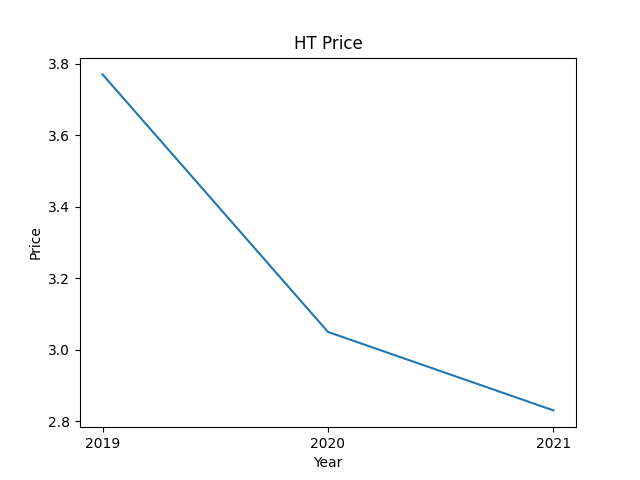
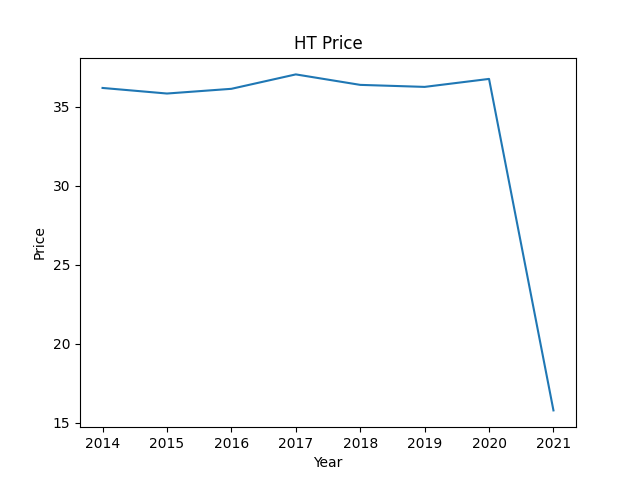
updated value error

diff --git a/main.py b/main.py
@@ -144,7 +144,7 @@ if ((val_yearly_demand > 0) & (val_yearly_demand < 2000)):
             ht_industrie_prices_without_VAT = household_prices
             ht_industrie_prices_without_VAT["year"] = ht_industrie_prices_without_VAT["year"].astype(int)
             ht_year = ht_industrie_prices_without_VAT["year"]
-            ht_price = ht_industrie_prices_without_VAT["price"]
+            ht_price = ht_industrie_prices_without_VAT["price"] * ht_factor
 
             ht_new_year = np.append(ht_year, 2021)
             ht_new_price = np.append(ht_price, val1)
@@ -156,7 +156,7 @@ if ((val_yearly_demand > 0) & (val_yearly_demand < 2000)):
             nt_industrie_prices_without_VAT = household_prices
             nt_industrie_prices_without_VAT["year"] = nt_industrie_prices_without_VAT["year"].astype(int)
             nt_year = nt_industrie_prices_without_VAT["year"]
-            nt_price = nt_industrie_prices_without_VAT["price"]
+            nt_price = nt_industrie_prices_without_VAT["price"] * nt_factor
 
             nt_new_year = np.append(nt_year, 2021)
             nt_new_price = np.append(nt_price, val2)
@@ -170,7 +170,7 @@ if ((val_yearly_demand > 0) & (val_yearly_demand < 2000)):
             ht_industrie_prices_without_VAT = household_prices
             ht_industrie_prices_without_VAT["year"] = ht_industrie_prices_without_VAT["year"].astype(int)
             ht_year = ht_industrie_prices_without_VAT["year"]
-            ht_price = ht_industrie_prices_without_VAT["price"]
+            ht_price = ht_industrie_prices_without_VAT["price"] * ht_factor
 
             ht_new_year = np.append(ht_year, 2021)
             ht_new_price = np.append(ht_price, (val1*ht_factor))
@@ -183,7 +183,7 @@ if ((val_yearly_demand > 0) & (val_yearly_demand < 2000)):
             nt_industrie_prices_without_VAT = household_prices
             nt_industrie_prices_without_VAT["year"] = nt_industrie_prices_without_VAT["year"].astype(int)
             nt_year = nt_industrie_prices_without_VAT["year"]
-            nt_price = nt_industrie_prices_without_VAT["price"]
+            nt_price = nt_industrie_prices_without_VAT["price"] * nt_factor
 
             nt_new_year = np.append(nt_year, 2021)
             nt_new_price = np.append(nt_price, (val1*nt_factor))
@@ -197,7 +197,7 @@ if ((val_yearly_demand > 0) & (val_yearly_demand < 2000)):
         ht_industrie_prices_without_VAT = household_prices
         ht_industrie_prices_without_VAT["year"] = ht_industrie_prices_without_VAT["year"].astype(int)
         ht_year = ht_industrie_prices_without_VAT["year"]
-        ht_price = ht_industrie_prices_without_VAT["price"]
+        ht_price = ht_industrie_prices_without_VAT["price"] * ht_factor
         f = interpolate.interp1d(ht_year, ht_price, fill_value = "extrapolate")
         p_2021 = f(2021)
 
@@ -211,7 +211,7 @@ if ((val_yearly_demand > 0) & (val_yearly_demand < 2000)):
         nt_industrie_prices_without_VAT = household_prices
         nt_industrie_prices_without_VAT["year"] = nt_industrie_prices_without_VAT["year"].astype(int)
         nt_year = nt_industrie_prices_without_VAT["year"]
-        nt_price = nt_industrie_prices_without_VAT["price"]
+        nt_price = nt_industrie_prices_without_VAT["price"] * nt_factor
         
         f = interpolate.interp1d(nt_year, nt_price, fill_value = "extrapolate")
         p_2021 = f(2021)
@@ -265,7 +265,7 @@ elif ((val_yearly_demand >= 2000) & (val_yearly_demand <= 20000)):
             ht_industrie_prices_without_VAT = industrie_prices_without_VAT
             ht_industrie_prices_without_VAT["year"] = ht_industrie_prices_without_VAT["year"].astype(int)
             ht_year = ht_industrie_prices_without_VAT["year"]
-            ht_price = ht_industrie_prices_without_VAT["price"]
+            ht_price = ht_industrie_prices_without_VAT["price"] * ht_factor
 
 
             ht_new_year = np.append(ht_year, 2021)
@@ -279,7 +279,7 @@ elif ((val_yearly_demand >= 2000) & (val_yearly_demand <= 20000)):
             nt_industrie_prices_without_VAT = industrie_prices_without_VAT
             nt_industrie_prices_without_VAT["year"] = nt_industrie_prices_without_VAT["year"].astype(int)
             nt_year = nt_industrie_prices_without_VAT["year"]
-            nt_price = nt_industrie_prices_without_VAT["price"]
+            nt_price = nt_industrie_prices_without_VAT["price"] * nt_factor
 
             nt_new_year = np.append(nt_year, 2021)
             nt_new_price = np.append(nt_price, (val1*nt_factor))
@@ -295,7 +295,7 @@ elif ((val_yearly_demand >= 2000) & (val_yearly_demand <= 20000)):
         ht_industrie_prices_without_VAT = industrie_prices_without_VAT
         ht_industrie_prices_without_VAT["year"] = ht_industrie_prices_without_VAT["year"].astype(int)
         ht_year = ht_industrie_prices_without_VAT["year"]
-        ht_price = ht_industrie_prices_without_VAT["price"]
+        ht_price = ht_industrie_prices_without_VAT["price"] * ht_factor
         f = interpolate.interp1d(ht_year, ht_price, fill_value = "extrapolate")
         p_2021 = f(2021)
 
@@ -309,7 +309,7 @@ elif ((val_yearly_demand >= 2000) & (val_yearly_demand <= 20000)):
         nt_industrie_prices_without_VAT = industrie_prices_without_VAT
         nt_industrie_prices_without_VAT["year"] = nt_industrie_prices_without_VAT["year"].astype(int)
         nt_year = nt_industrie_prices_without_VAT["year"]
-        nt_price = nt_industrie_prices_without_VAT["price"]
+        nt_price = nt_industrie_prices_without_VAT["price"] * nt_factor
         
         f = interpolate.interp1d(nt_year, nt_price, fill_value = "extrapolate")
         p_2021 = f(2021)
@@ -339,7 +339,7 @@ elif ((val_yearly_demand > 20000) & (val_yearly_demand <= 70000)):
             ht_industrie_prices_without_VAT = mid_industrie_prices
             ht_industrie_prices_without_VAT["year"] = ht_industrie_prices_without_VAT["year"].astype(int)
             ht_year = ht_industrie_prices_without_VAT["year"]
-            ht_price = ht_industrie_prices_without_VAT["price"]
+            ht_price = ht_industrie_prices_without_VAT["price"] * ht_factor
 
             ht_new_year = np.append(ht_year, 2021)
             ht_new_price = np.append(ht_price, val1)
@@ -351,7 +351,7 @@ elif ((val_yearly_demand > 20000) & (val_yearly_demand <= 70000)):
             nt_industrie_prices_without_VAT = mid_industrie_prices
             nt_industrie_prices_without_VAT["year"] = nt_industrie_prices_without_VAT["year"].astype(int)
             nt_year = nt_industrie_prices_without_VAT["year"]
-            nt_price = nt_industrie_prices_without_VAT["price"]
+            nt_price = nt_industrie_prices_without_VAT["price"] * nt_factor
 
             nt_new_year = np.append(nt_year, 2021)
             nt_new_price = np.append(nt_price, val2)
@@ -365,7 +365,7 @@ elif ((val_yearly_demand > 20000) & (val_yearly_demand <= 70000)):
             ht_industrie_prices_without_VAT = mid_industrie_prices
             ht_industrie_prices_without_VAT["year"] = ht_industrie_prices_without_VAT["year"].astype(int)
             ht_year = ht_industrie_prices_without_VAT["year"]
-            ht_price = ht_industrie_prices_without_VAT["price"]
+            ht_price = ht_industrie_prices_without_VAT["price"] * ht_factor
 
             ht_new_year = np.append(ht_year, 2021)
             ht_new_price = np.append(ht_price, (val1*ht_factor))
@@ -378,7 +378,7 @@ elif ((val_yearly_demand > 20000) & (val_yearly_demand <= 70000)):
             nt_industrie_prices_without_VAT = mid_industrie_prices
             nt_industrie_prices_without_VAT["year"] = nt_industrie_prices_without_VAT["year"].astype(int)
             nt_year = nt_industrie_prices_without_VAT["year"]
-            nt_price = nt_industrie_prices_without_VAT["price"]
+            nt_price = nt_industrie_prices_without_VAT["price"] * nt_factor
 
             nt_new_year = np.append(nt_year, 2021)
             nt_new_price = np.append(nt_price, (val1*nt_factor))
@@ -392,7 +392,7 @@ elif ((val_yearly_demand > 20000) & (val_yearly_demand <= 70000)):
         ht_industrie_prices_without_VAT = mid_industrie_prices
         ht_industrie_prices_without_VAT["year"] = ht_industrie_prices_without_VAT["year"].astype(int)
         ht_year = ht_industrie_prices_without_VAT["year"]
-        ht_price = ht_industrie_prices_without_VAT["price"]
+        ht_price = ht_industrie_prices_without_VAT["price"] * ht_factor
         f = interpolate.interp1d(ht_year, ht_price, fill_value = "extrapolate")
         p_2021 = f(2021)
 
@@ -406,7 +406,7 @@ elif ((val_yearly_demand > 20000) & (val_yearly_demand <= 70000)):
         nt_industrie_prices_without_VAT = mid_industrie_prices
         nt_industrie_prices_without_VAT["year"] = nt_industrie_prices_without_VAT["year"].astype(int)
         nt_year = nt_industrie_prices_without_VAT["year"]
-        nt_price = nt_industrie_prices_without_VAT["price"]
+        nt_price = nt_industrie_prices_without_VAT["price"] * nt_factor
         
         f = interpolate.interp1d(nt_year, nt_price, fill_value = "extrapolate")
         p_2021 = f(2021)
@@ -436,7 +436,7 @@ elif ((val_yearly_demand > 70000) & (val_yearly_demand <= 150000)):
             ht_industrie_prices_without_VAT = big_industrial_prices_BDEW
             ht_industrie_prices_without_VAT["year"] = ht_industrie_prices_without_VAT["year"].astype(int)
             ht_year = ht_industrie_prices_without_VAT["year"]
-            ht_price = ht_industrie_prices_without_VAT["price"]
+            ht_price = ht_industrie_prices_without_VAT["price"] * ht_factor
 
             ht_new_year = np.append(ht_year, 2021)
             ht_new_price = np.append(ht_price, val1)
@@ -448,7 +448,7 @@ elif ((val_yearly_demand > 70000) & (val_yearly_demand <= 150000)):
             nt_industrie_prices_without_VAT = big_industrial_prices_BDEW
             nt_industrie_prices_without_VAT["year"] = nt_industrie_prices_without_VAT["year"].astype(int)
             nt_year = nt_industrie_prices_without_VAT["year"]
-            nt_price = nt_industrie_prices_without_VAT["price"]
+            nt_price = nt_industrie_prices_without_VAT["price"] * nt_factor
 
             nt_new_year = np.append(nt_year, 2021)
             nt_new_price = np.append(nt_price, val2)
@@ -462,7 +462,7 @@ elif ((val_yearly_demand > 70000) & (val_yearly_demand <= 150000)):
             ht_industrie_prices_without_VAT = big_industrial_prices_BDEW
             ht_industrie_prices_without_VAT["year"] = ht_industrie_prices_without_VAT["year"].astype(int)
             ht_year = ht_industrie_prices_without_VAT["year"]
-            ht_price = ht_industrie_prices_without_VAT["price"]
+            ht_price = ht_industrie_prices_without_VAT["price"] * ht_factor
 
             ht_new_year = np.append(ht_year, 2021)
             ht_new_price = np.append(ht_price, (val1*ht_factor))
@@ -475,7 +475,7 @@ elif ((val_yearly_demand > 70000) & (val_yearly_demand <= 150000)):
             nt_industrie_prices_without_VAT = big_industrial_prices_BDEW
             nt_industrie_prices_without_VAT["year"] = nt_industrie_prices_without_VAT["year"].astype(int)
             nt_year = nt_industrie_prices_without_VAT["year"]
-            nt_price = nt_industrie_prices_without_VAT["price"]
+            nt_price = nt_industrie_prices_without_VAT["price"] * nt_factor
 
             nt_new_year = np.append(nt_year, 2021)
             nt_new_price = np.append(nt_price, (val1*nt_factor))
@@ -489,7 +489,7 @@ elif ((val_yearly_demand > 70000) & (val_yearly_demand <= 150000)):
         ht_industrie_prices_without_VAT = big_industrial_prices_BDEW
         ht_industrie_prices_without_VAT["year"] = ht_industrie_prices_without_VAT["year"].astype(int)
         ht_year = ht_industrie_prices_without_VAT["year"]
-        ht_price = ht_industrie_prices_without_VAT["price"]
+        ht_price = ht_industrie_prices_without_VAT["price"] * ht_factor
         f = interpolate.interp1d(ht_year, ht_price, fill_value = "extrapolate")
         p_2021 = f(2021)
 
@@ -503,7 +503,7 @@ elif ((val_yearly_demand > 70000) & (val_yearly_demand <= 150000)):
         nt_industrie_prices_without_VAT = big_industrial_prices_BDEW
         nt_industrie_prices_without_VAT["year"] = nt_industrie_prices_without_VAT["year"].astype(int)
         nt_year = nt_industrie_prices_without_VAT["year"]
-        nt_price = nt_industrie_prices_without_VAT["price"]
+        nt_price = nt_industrie_prices_without_VAT["price"] * nt_factor
         
         f = interpolate.interp1d(nt_year, nt_price, fill_value = "extrapolate")
         p_2021 = f(2021)
@@ -533,7 +533,7 @@ elif ((val_yearly_demand > 150000)):
             ht_industrie_prices_without_VAT = v_big_industrial_prices_BDEW
             ht_industrie_prices_without_VAT["year"] = ht_industrie_prices_without_VAT["year"].astype(int)
             ht_year = ht_industrie_prices_without_VAT["year"]
-            ht_price = ht_industrie_prices_without_VAT["price"]
+            ht_price = ht_industrie_prices_without_VAT["price"] * ht_factor
 
             ht_new_year = np.append(ht_year, 2021)
             ht_new_price = np.append(ht_price, val1)
@@ -545,7 +545,7 @@ elif ((val_yearly_demand > 150000)):
             nt_industrie_prices_without_VAT = v_big_industrial_prices_BDEW
             nt_industrie_prices_without_VAT["year"] = nt_industrie_prices_without_VAT["year"].astype(int)
             nt_year = nt_industrie_prices_without_VAT["year"]
-            nt_price = nt_industrie_prices_without_VAT["price"]
+            nt_price = nt_industrie_prices_without_VAT["price"] * nt_factor
 
             nt_new_year = np.append(nt_year, 2021)
             nt_new_price = np.append(nt_price, val2)
@@ -559,7 +559,7 @@ elif ((val_yearly_demand > 150000)):
             ht_industrie_prices_without_VAT = v_big_industrial_prices_BDEW
             ht_industrie_prices_without_VAT["year"] = ht_industrie_prices_without_VAT["year"].astype(int)
             ht_year = ht_industrie_prices_without_VAT["year"]
-            ht_price = ht_industrie_prices_without_VAT["price"]
+            ht_price = ht_industrie_prices_without_VAT["price"] * ht_factor
 
             ht_new_year = np.append(ht_year, 2021)
             ht_new_price = np.append(ht_price, (val1*ht_factor))
@@ -572,7 +572,7 @@ elif ((val_yearly_demand > 150000)):
             nt_industrie_prices_without_VAT = v_big_industrial_prices_BDEW
             nt_industrie_prices_without_VAT["year"] = nt_industrie_prices_without_VAT["year"].astype(int)
             nt_year = nt_industrie_prices_without_VAT["year"]
-            nt_price = nt_industrie_prices_without_VAT["price"]
+            nt_price = nt_industrie_prices_without_VAT["price"] * nt_factor
 
             nt_new_year = np.append(nt_year, 2021)
             nt_new_price = np.append(nt_price, (val1*nt_factor))
@@ -586,7 +586,7 @@ elif ((val_yearly_demand > 150000)):
         ht_industrie_prices_without_VAT = v_big_industrial_prices_BDEW
         ht_industrie_prices_without_VAT["year"] = ht_industrie_prices_without_VAT["year"].astype(int)
         ht_year = ht_industrie_prices_without_VAT["year"]
-        ht_price = ht_industrie_prices_without_VAT["price"]
+        ht_price = ht_industrie_prices_without_VAT["price"] * ht_factor
         f = interpolate.interp1d(ht_year, ht_price, fill_value = "extrapolate")
         p_2021 = f(2021)
 
@@ -600,7 +600,7 @@ elif ((val_yearly_demand > 150000)):
         nt_industrie_prices_without_VAT = v_big_industrial_prices_BDEW
         nt_industrie_prices_without_VAT["year"] = nt_industrie_prices_without_VAT["year"].astype(int)
         nt_year = nt_industrie_prices_without_VAT["year"]
-        nt_price = nt_industrie_prices_without_VAT["price"]
+        nt_price = nt_industrie_prices_without_VAT["price"] * nt_factor
         
         f = interpolate.interp1d(nt_year, nt_price, fill_value = "extrapolate")
         p_2021 = f(2021)
